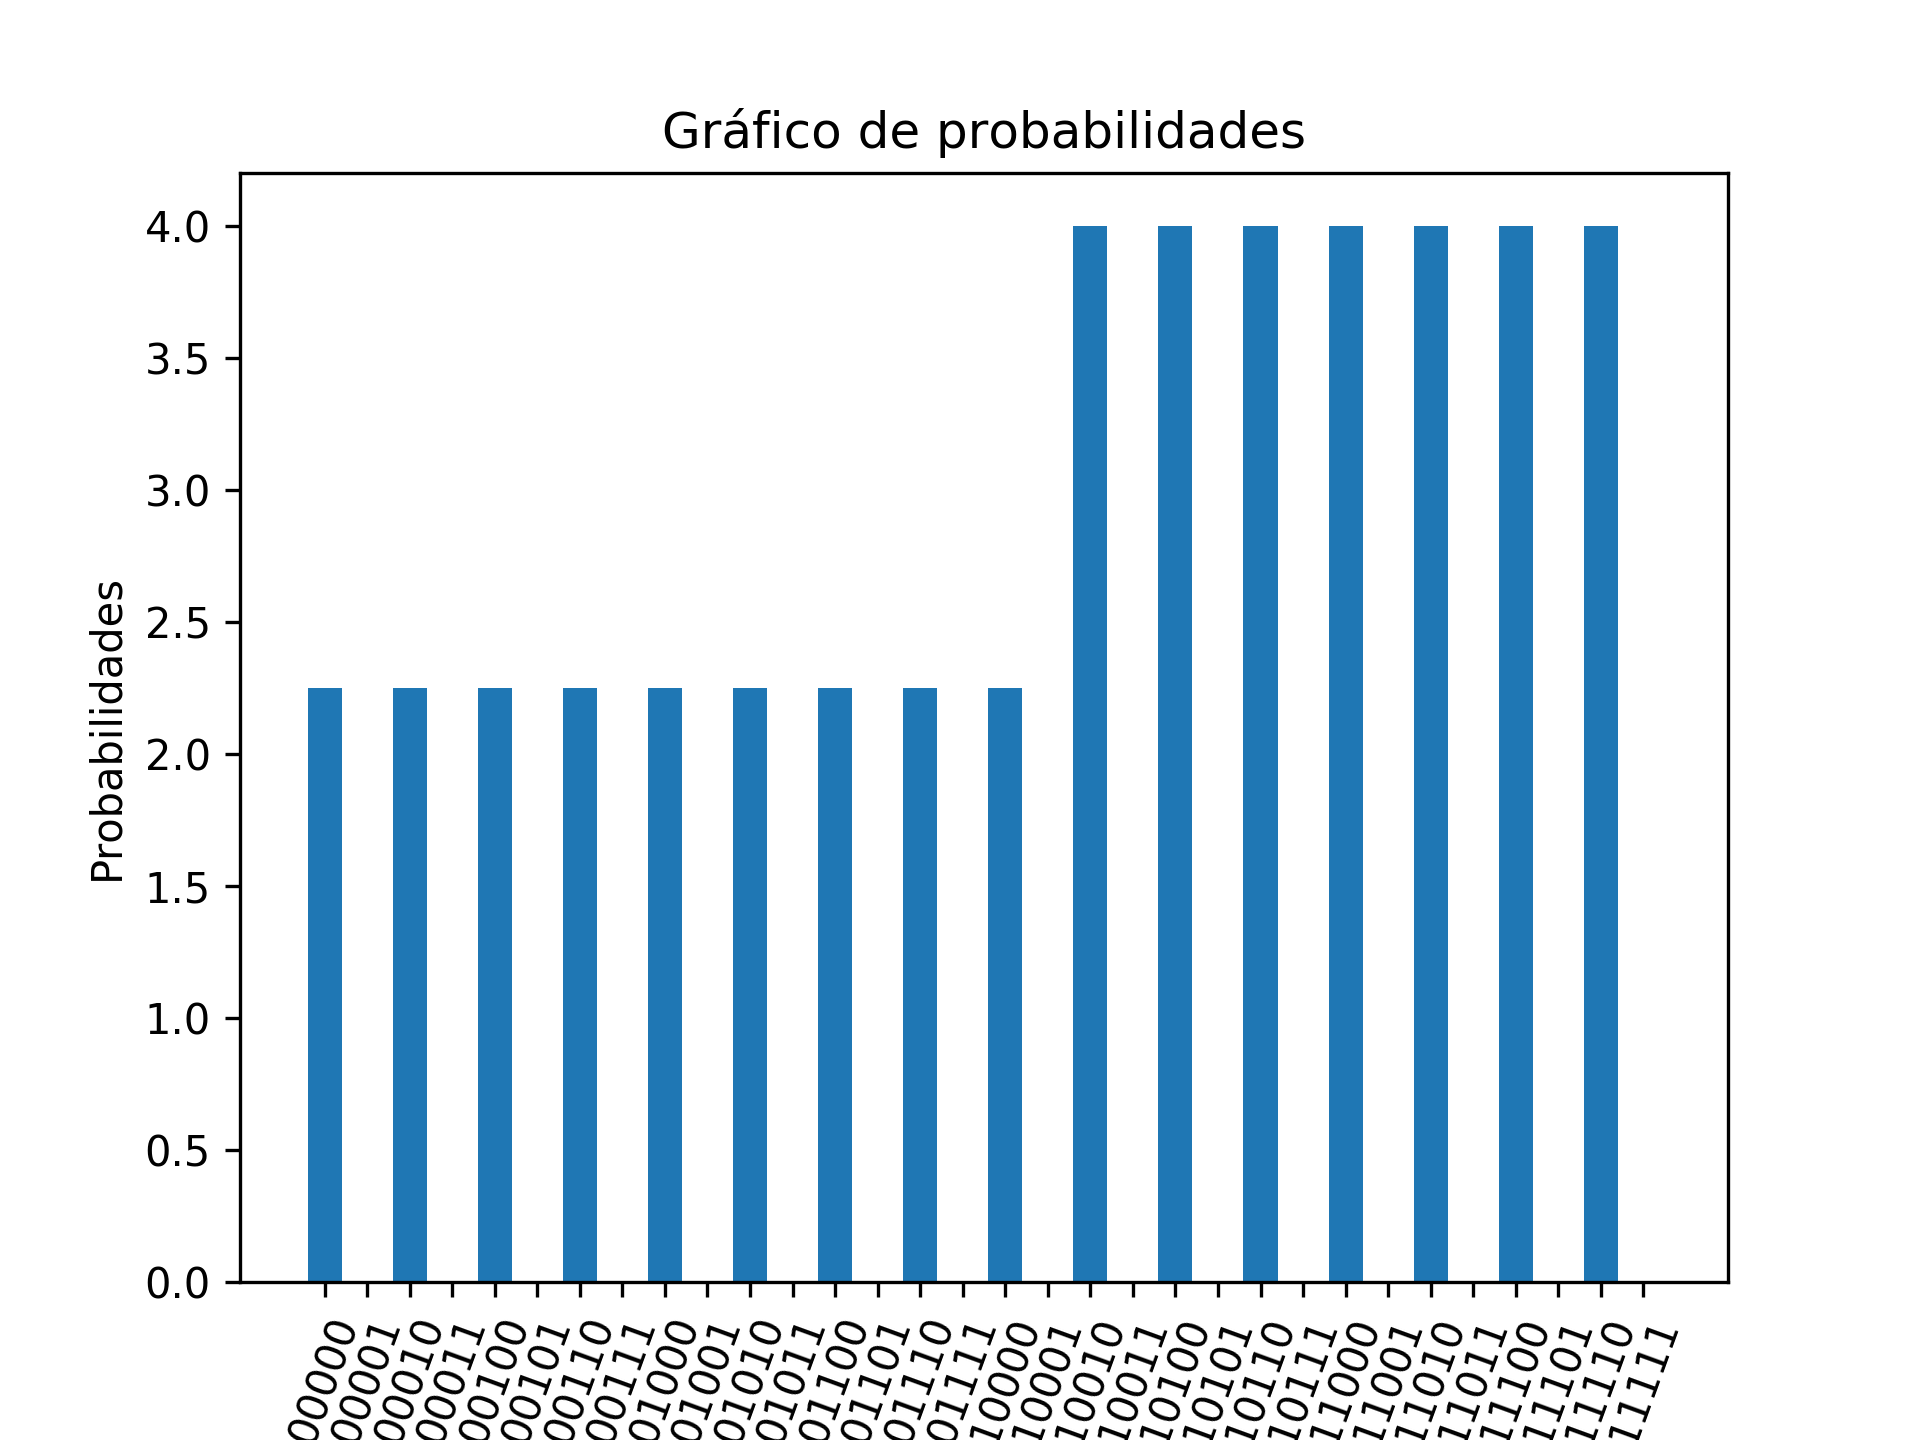
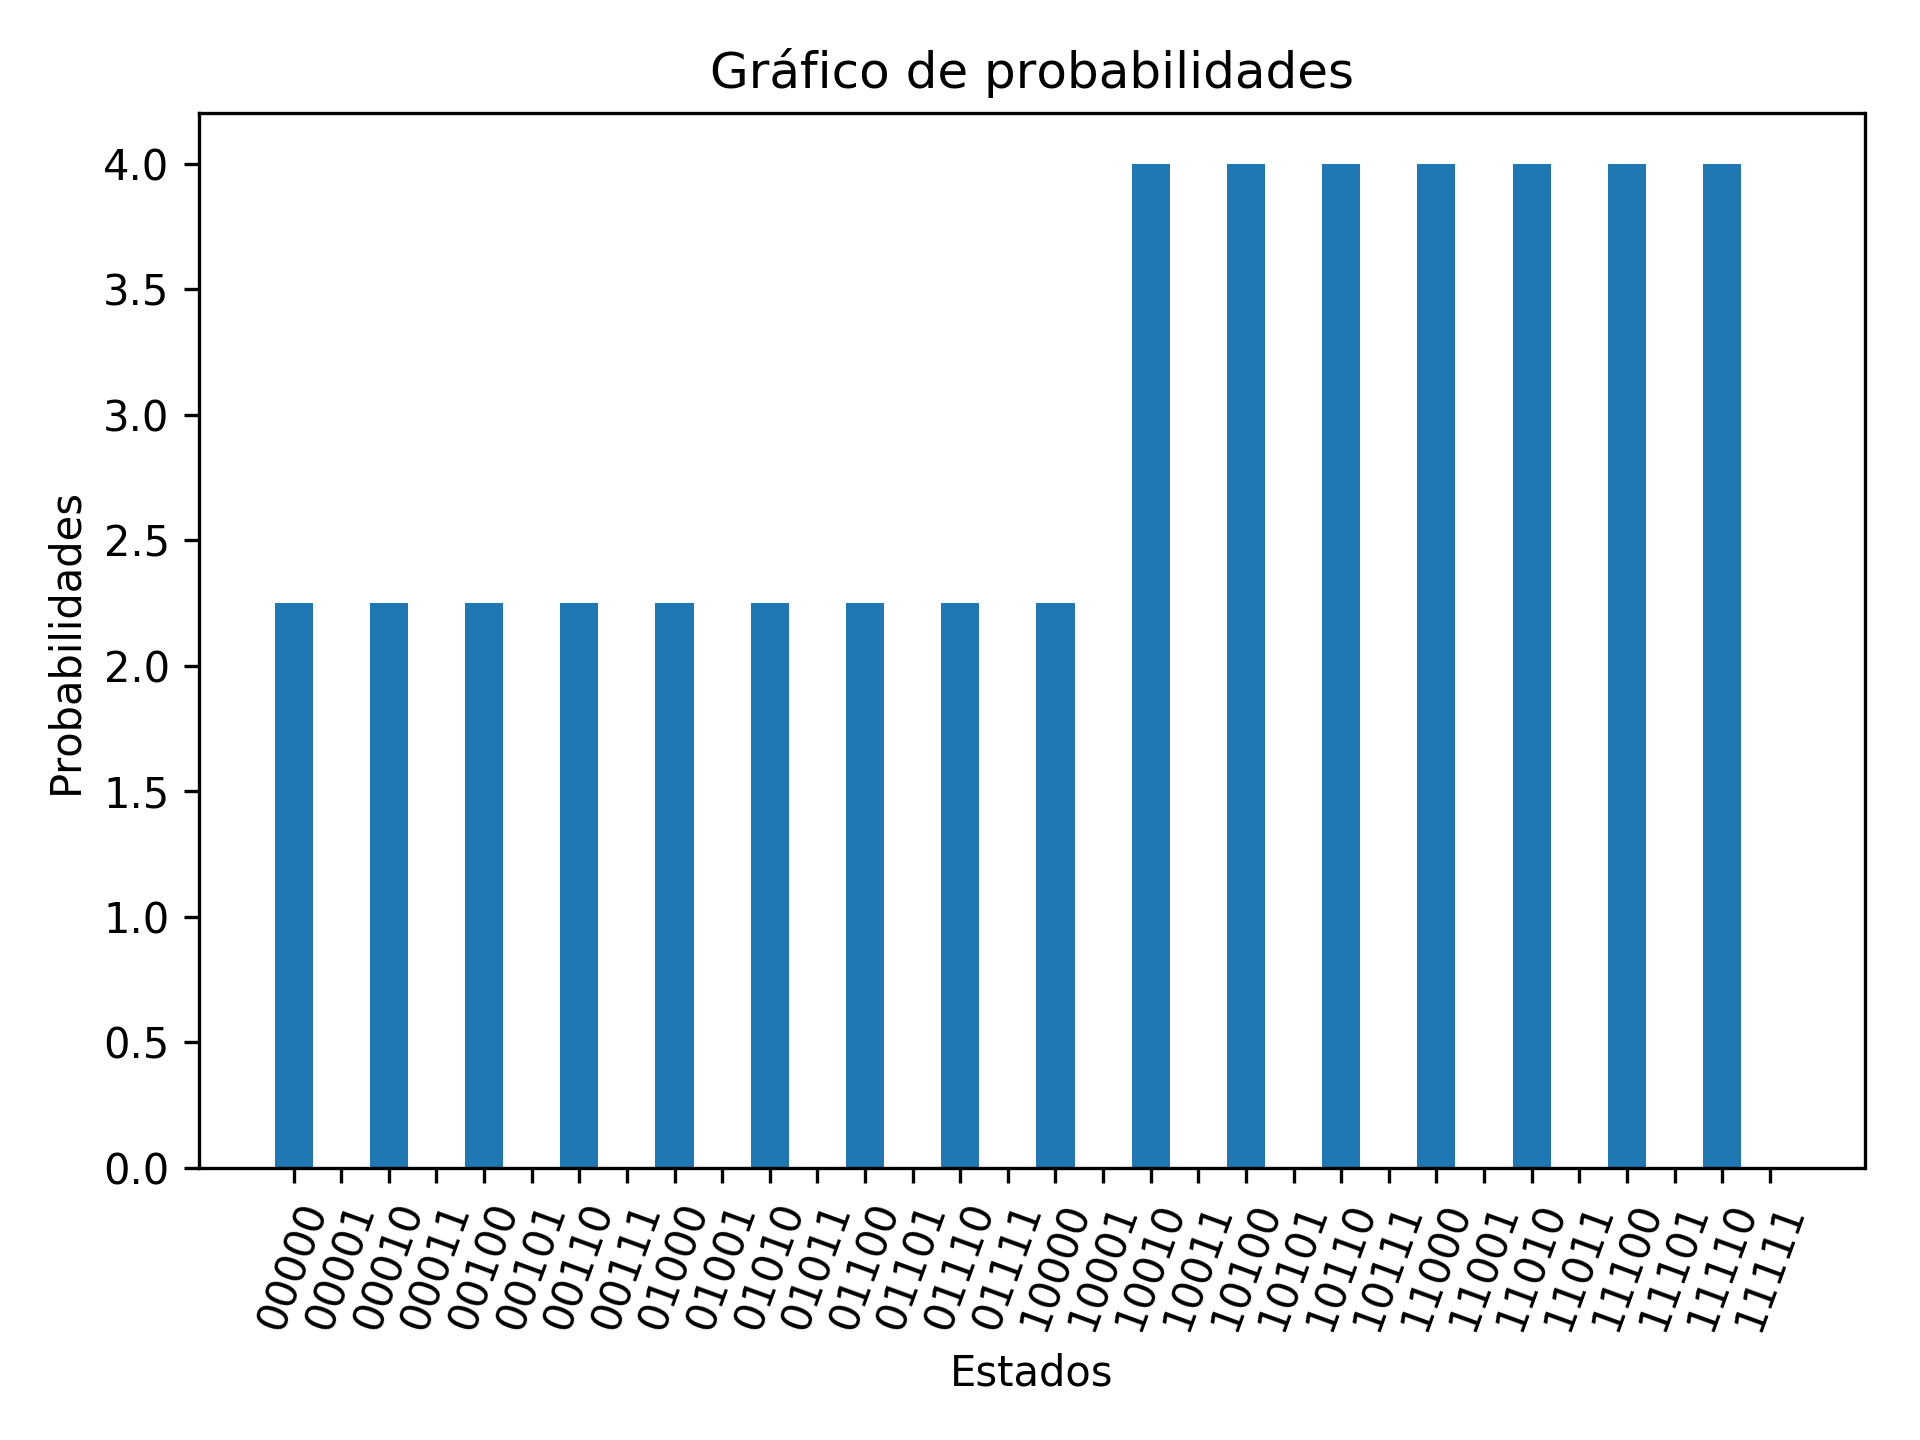
Exibindo o nome do eixo X nos plots  - Refatoração no método plot_psi em operations.py para exibir o nome do eixo X  - Geração automática de novas imagens com os plots de execução

Changed region(s): [[0.0312, 0.0312, 0.9688, 1.0]]

diff --git a/Algorithms/utils/operations.py b/Algorithms/utils/operations.py
@@ -278,6 +278,9 @@ def plot_psi(psi, address_to_save):
     plt.xticks(rotation=70)
     # plt.legend(["Probabilidades"])
     
+    # Automatically adjust subplot parameters
+    plt.tight_layout()
+    
     # Showing the graph
 #     plt.show()
 
